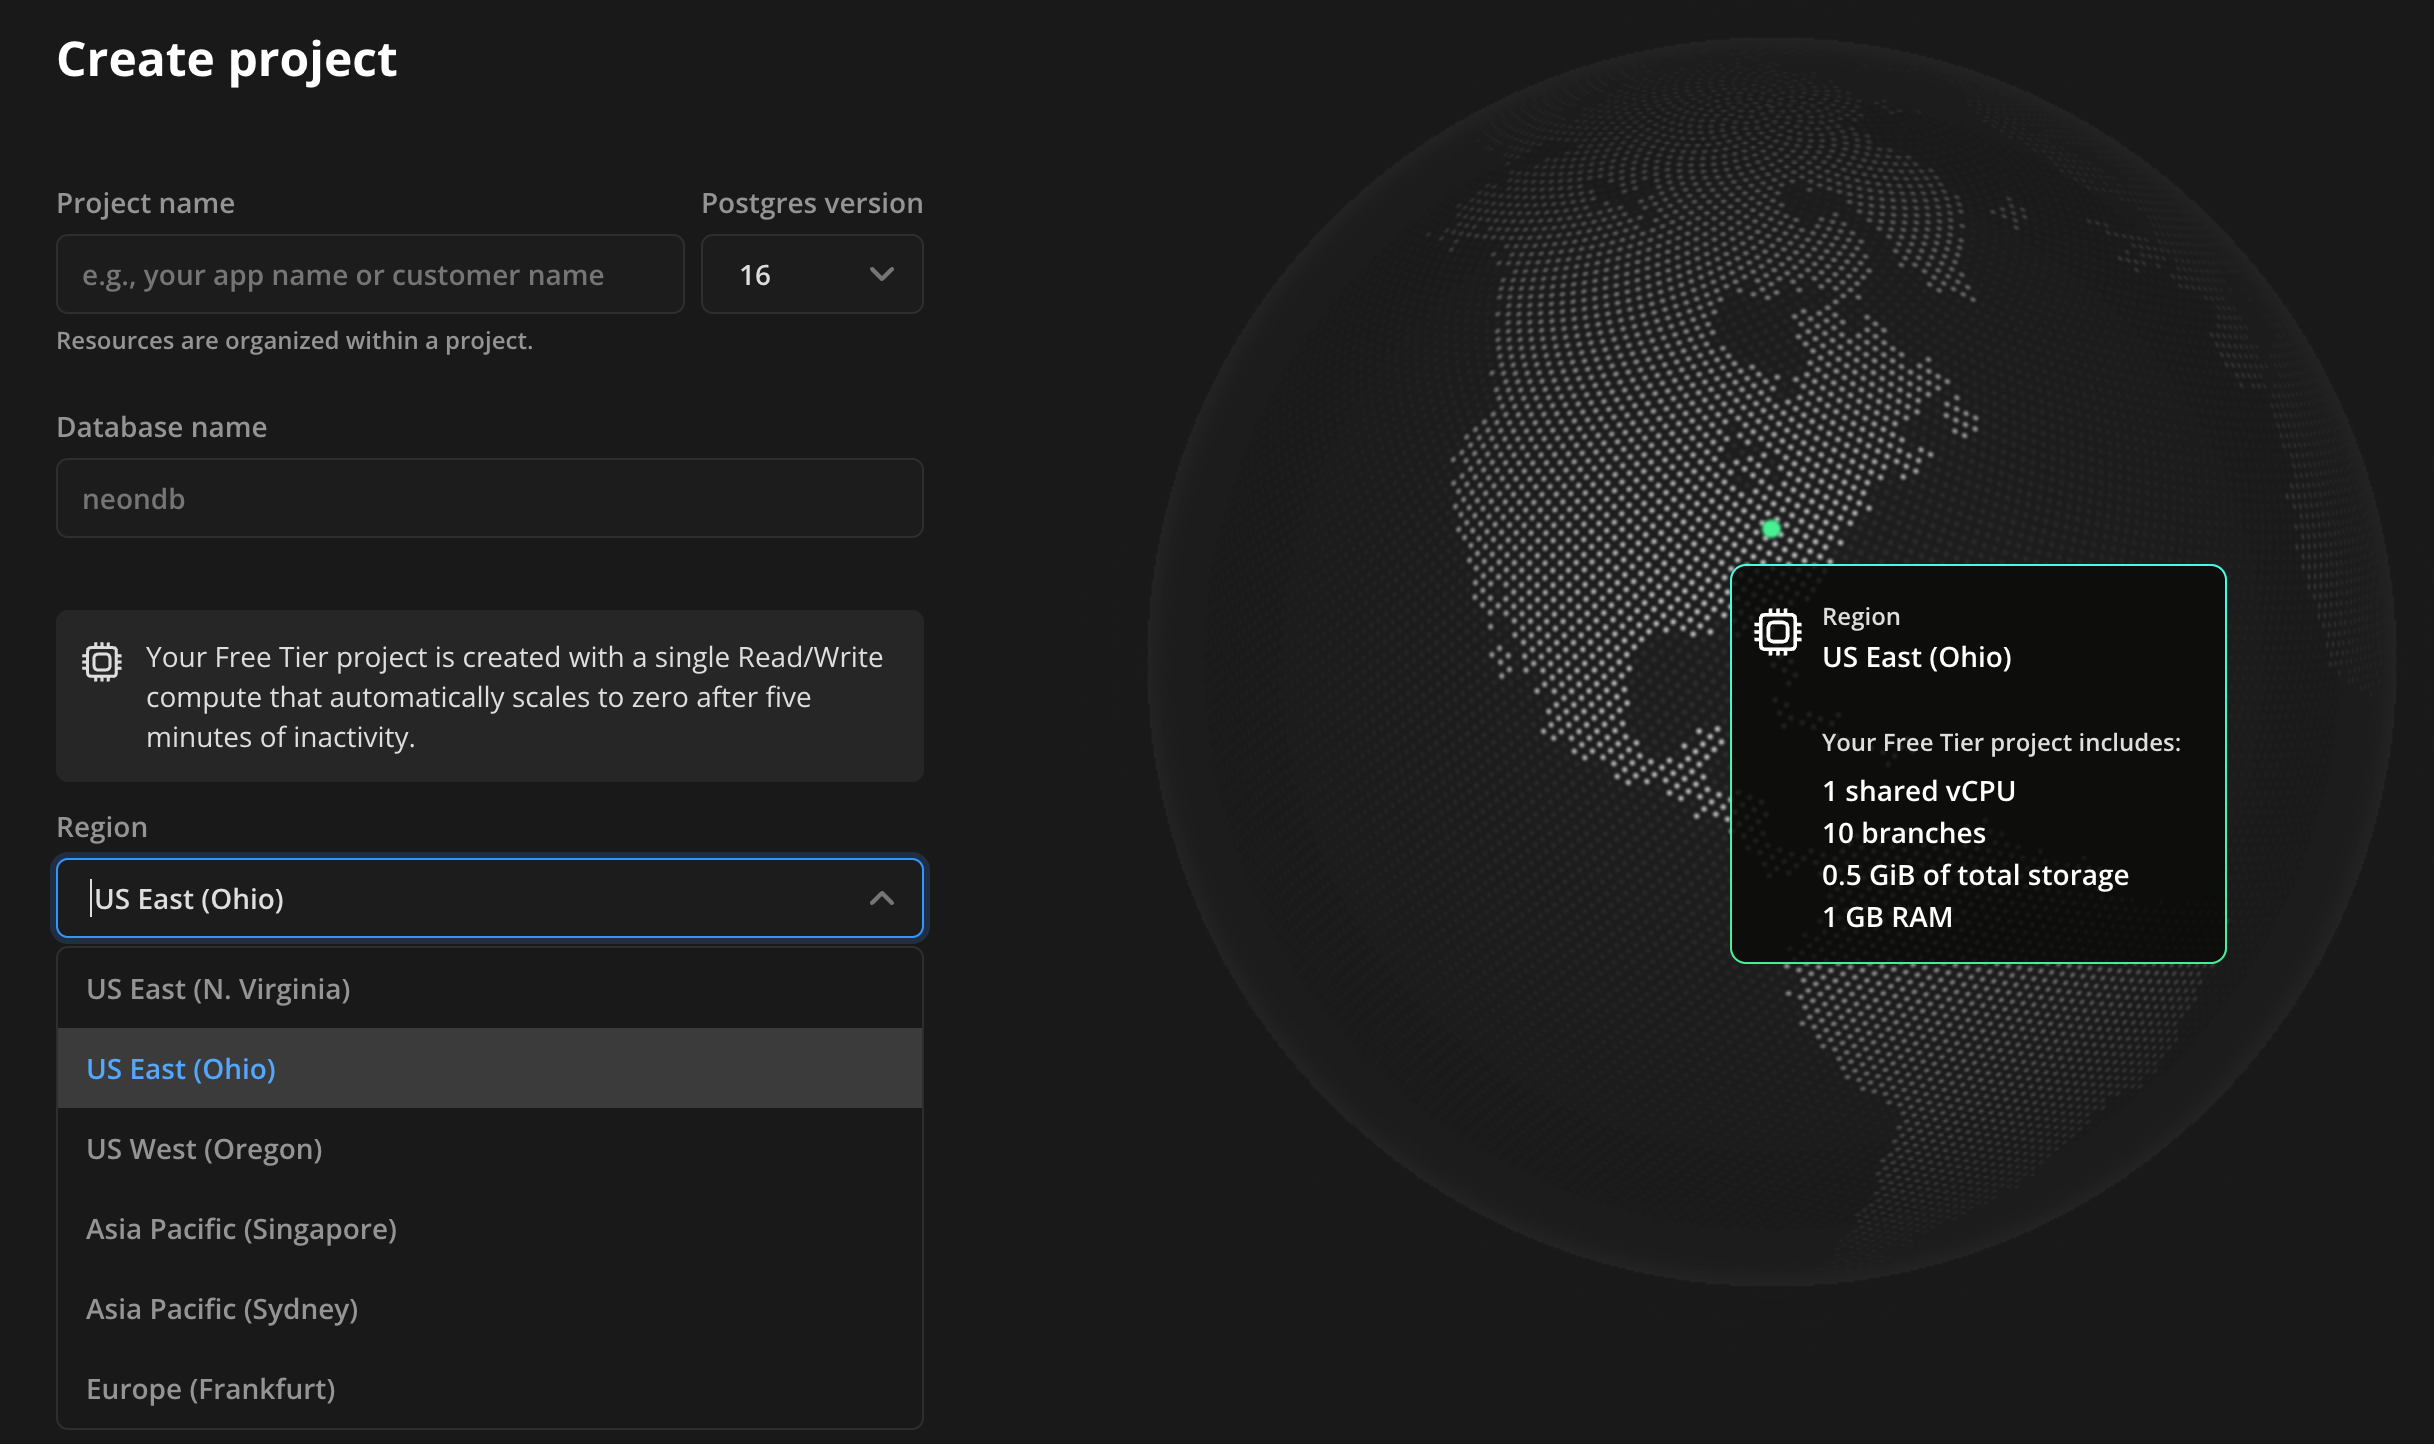
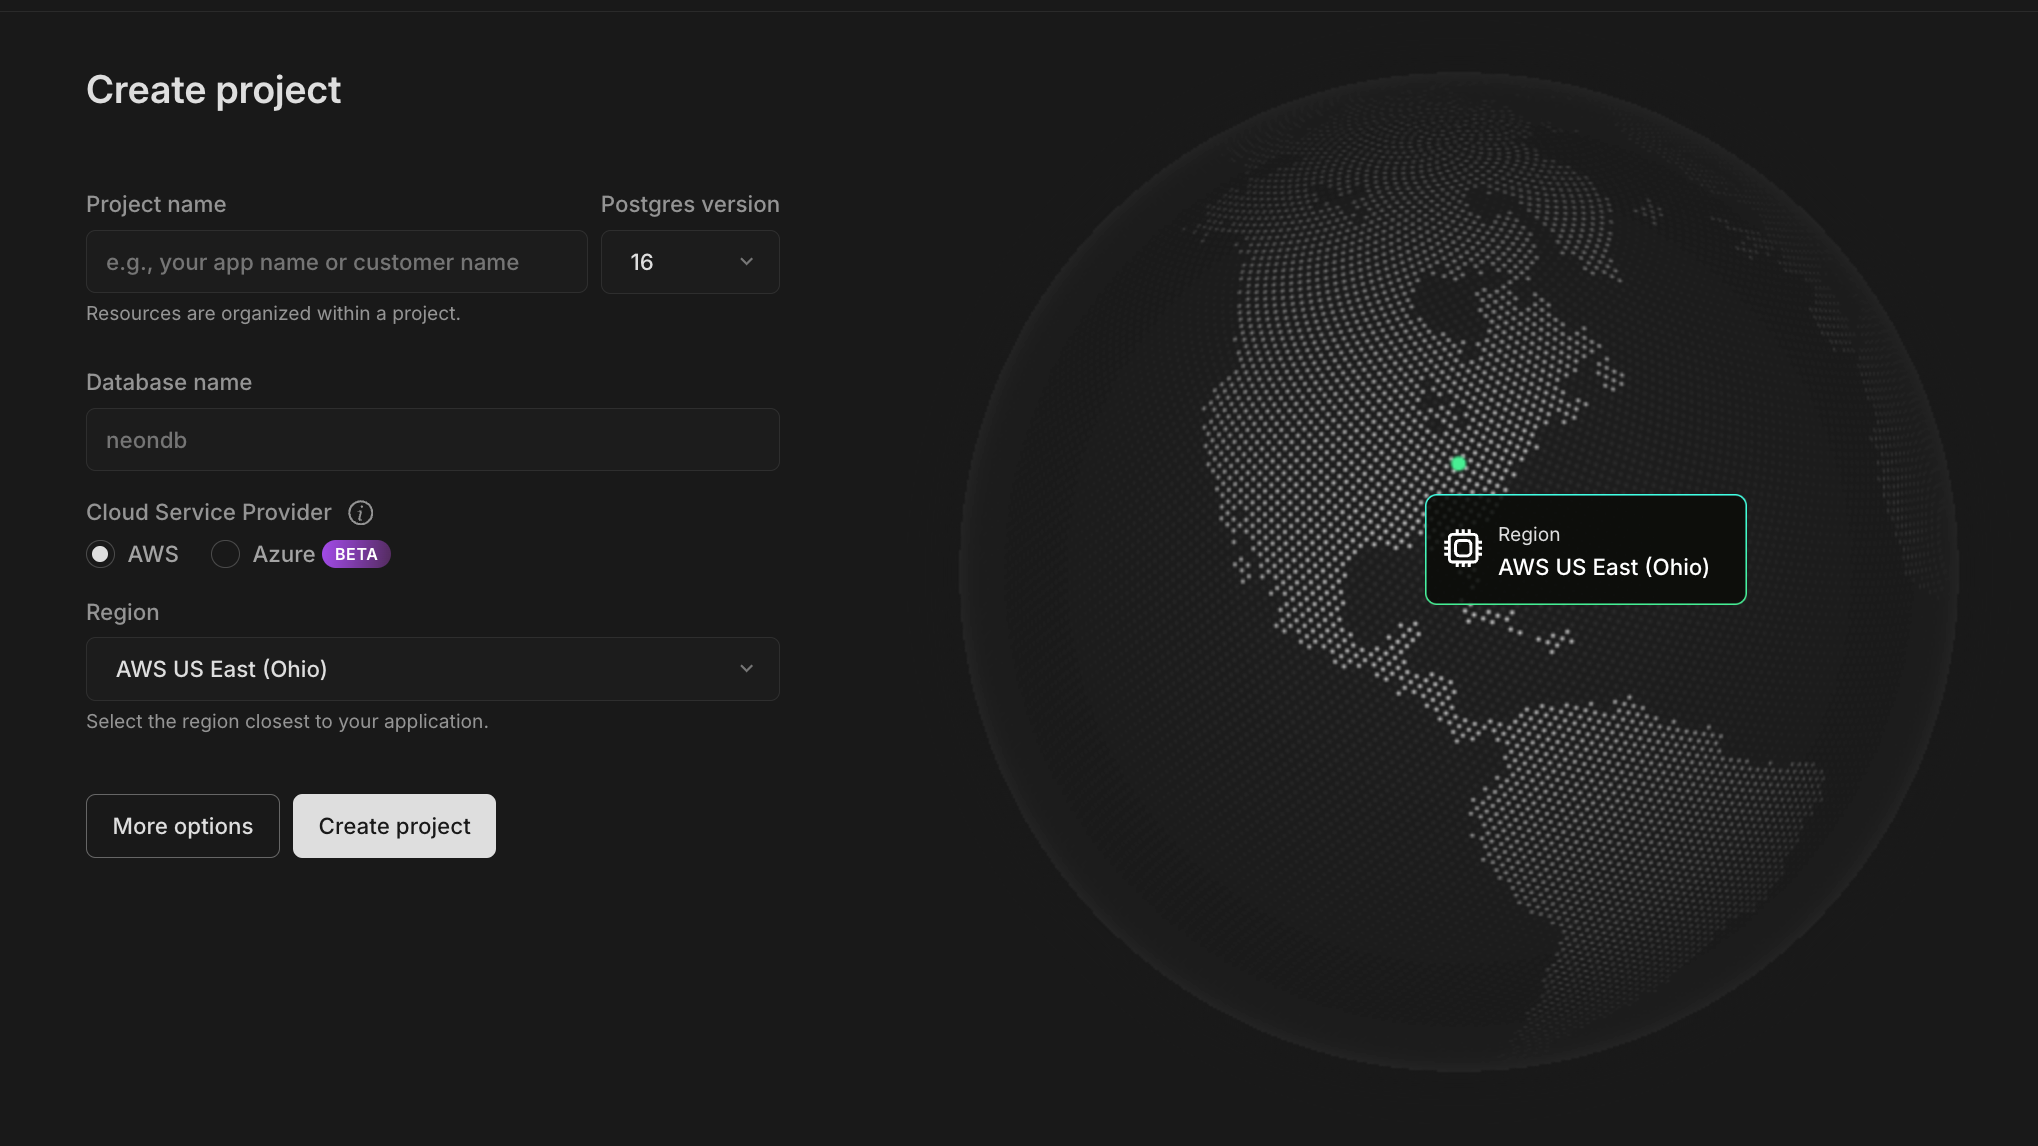
docs: azure updates

diff --git a/content/docs/introduction/regions.md b/content/docs/introduction/regions.md
@@ -9,7 +9,7 @@ updatedOn: '2024-08-20T23:55:48.552Z'
 
 Neon supports project deployment in several regions. We recommended that you select the region closest to your application server to reduce latency between your Neon database and your application.
 
-## Available regions
+## AWS regions
 
 Neon currently supports the following AWS regions:
 
@@ -19,6 +19,14 @@ Neon currently supports the following AWS regions:
 - Europe (Frankfurt) &mdash; `aws-eu-central-1`
 - Asia Pacific (Singapore) &mdash; `aws-ap-southeast-1`
 - Asia Pacific (Sydney) &mdash; `aws-ap-southeast-2`
+
+## Azure regions
+
+- East US 2 region &mdash; `azure-us-east-2`
+
+<Admonition type="note">
+The Neon on Azure Beta is limited to the Azure East US 2 region and may not be suitable for business-critical projects.
+</Admonition>
 
 ## Select a region for your Neon project
 
@@ -38,7 +46,7 @@ A NAT gateway has a public IP address that external systems see when private res
 
 If you are unsure of your project's region, you can find this information in the **Project settings** widget on the **Project Dashboard**.
 
-### NAT Gateway IP Addresses by region
+### AWS NAT Gateway IP Addresses by region
 
 | Region                                        | NAT Gateway IP Addresses                                                               |
 | :-------------------------------------------- | :------------------------------------------------------------------------------------- |
@@ -48,6 +56,10 @@ If you are unsure of your project's region, you can find this information in the
 | Europe (Frankfurt) — aws-eu-central-1         | 18.158.63.175, 3.125.234.79, 3.125.57.42                                               |
 | Asia Pacific (Singapore) — aws-ap-southeast-1 | 54.254.50.26, 54.254.92.70, 54.255.161.23                                              |
 | Asia Pacific (Sydney) — aws-ap-southeast-2    | 13.237.134.148, 13.55.152.144, 54.153.185.87                                           |
+
+<Admonition type="note">
+NAT Gateway IP addresses are not yet available for Azure regions. Support will be introduced in a future release. Workarounds include opening connections to all IPs (0.0.0.0/0), which is not considered secure, or requesting a specific IP address from [Neon Support](/docs/introduction/support) to use with setups and configurations that require it.
+</Admonition>
 
 ## Move project data to a new region
 

diff --git a/content/docs/manage/projects.md b/content/docs/manage/projects.md
@@ -59,14 +59,15 @@ To create a Neon project:
 
 1. Navigate to the [Neon Console](https://console.neon.tech).
 2. Click **New Project**.
-3. Specify values for **Name**, **Postgres version**, and **Region**. Project names are limited to 64 characters. If you are a paying user, you can specify **Compute size** settings when creating a project. The settings you specify become the default settings for computes that you add to your project when creating [branches](/docs/manage/branches#create-a-branch) or [read replicas](/docs/guides/read-replica-guide).
+3. Specify values for **Project Name**, **Postgres version**, **Cloud Service Provider**, and **Region**. Project names are limited to 64 characters. If you are a paying user, you can specify **Compute size** settings when creating a project. The settings you specify become the default settings for computes that you add to your project when creating [branches](/docs/manage/branches#create-a-branch) or [read replicas](/docs/guides/read-replica-guide).
 
    - Neon supports fixed size computes and autoscaling. For more information, see [Compute size and autoscaling configuration](/docs/manage/endpoints#compute-size-and-autoscaling-configuration).
    - The **Suspend compute after a period of inactivity** setting defines the period of inactivity after which a compute is automatically suspended. For more information, see [Autosuspend configuration](/docs/manage/endpoints#auto-suspend-configuration).
 
-4. Click **Create Project**.
+4. Optionally, select **More options** to specify a name for your default branch. The default name is `main`.
+5. Click **Create Project**.
 
-After creating a project, you are presented with a dialog that provides your connection details for a ready-to-use `neondb` database. The connection details include your password.
+After creating a project, you are presented with a dialog that provides your connection details for your database. The connection details include your password.
 
 <Admonition type="tip">
 Similar to **docs.new** for instantly creating Google Docs or **repo.new** for adding new GitHub repositories, you can use [pg.new](https://pg.new) to create a new Neon Postgres project. Simply visit [pg.new](https://pg.new) and you'll be taken straight to the **Create project** page where you can create your new project.

diff --git a/content/docs/security/security-overview.md b/content/docs/security/security-overview.md
@@ -40,7 +40,11 @@ Data-at-rest encryption is a method of storing inactive data that converts plain
 
 ## Secure data centers
 
-Neon’s infrastructure is hosted and managed within Amazon’s secure data centers backed by [AWS Cloud Security](https://aws.amazon.com/security/). Amazon continually manages risk and undergoes recurring assessments to ensure compliance with industry standards. For information about AWS data center compliance programs, refer to [AWS Compliance Programs](https://aws.amazon.com/compliance/programs/).
+Neon’s infrastructure is hosted and managed within either Amazon's or Azure's secure data centers, depending on the cloud service provide you selected when setting up your project.
+
+Amazon’s secure data centers backed by [AWS Cloud Security](https://aws.amazon.com/security/). Amazon continually manages risk and undergoes recurring assessments to ensure compliance with industry standards. For information about AWS data center compliance programs, refer to [AWS Compliance Programs](https://aws.amazon.com/compliance/programs/).
+
+The Microsoft cloud data centers that power Azure focus on high reliability, operational excellence, cost-effectiveness, and a trustworthy online experience for Microsoft customers and partners worldwide. Microsoft regularly tests data center security through both internal and third-party audits. As a result, the most highly regulated organizations in the world trust the Microsoft cloud, which is compliant with more certifications than any other cloud service provider. To learn more, refer to [Microsoft's Datacenter security overview](https://learn.microsoft.com/en-us/compliance/assurance/assurance-datacenter-security).
 
 ## SOC 2 compliance
 
